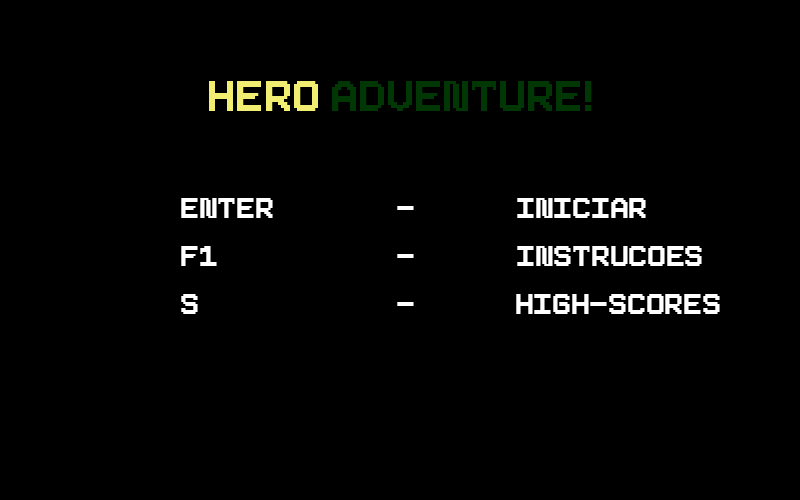
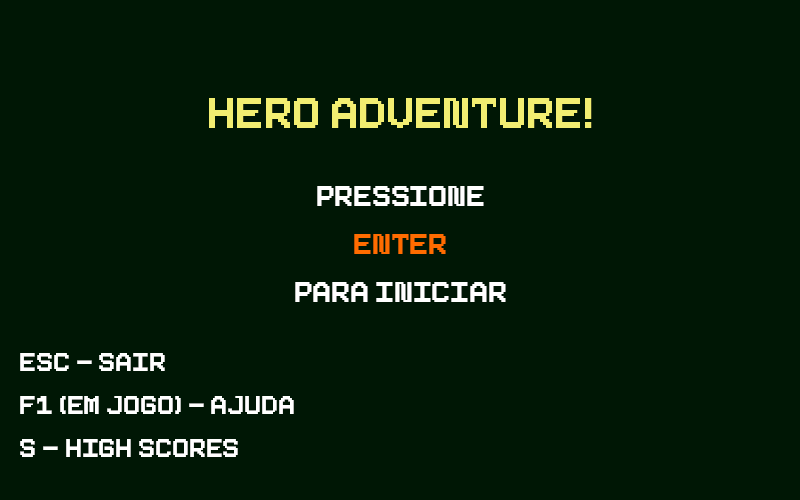
quase pronto, falta apenas conclusão e easter egg

diff --git a/class/hero_class.c b/class/hero_class.c
@@ -12,13 +12,19 @@
 
 void inicia_fontes(){
 
-	 title_font = al_load_ttf_font(FONT_PIX, 40, 0);
+	title_font = al_load_ttf_font(FONT_PIX, 40, 0);
 	if (!title_font)
 	{
 	    fprintf(stderr, "Não foi possivel carregar a fonte" );
 	    exit(1);
 	}
 	score_font = al_load_ttf_font(FONT_PIX, 15, 0);
+	if (!score_font)
+	{
+	    fprintf(stderr, "Não foi possivel carregar a fonte" );
+	   	exit(1);
+	}
+	name_font = al_load_ttf_font(FONT_PIX, 32, 0);
 	if (!score_font)
 	{
 	    fprintf(stderr, "Não foi possivel carregar a fonte" );
@@ -398,6 +404,26 @@ void cria_monstros_estruturas()
 	monsters[6] -> checa_sprite = 0;
   	monsters[6] -> num_sprite = 0;
 
+  	monsters[7] -> using = 1;
+	monsters[7] -> type = 4;
+	monsters[7] -> live = 1;
+	monsters[7] -> life = 1;
+	monsters[7] -> w = 70;
+	monsters[7] -> h = 103;
+	monsters[7] -> x = 540;
+	monsters[7] -> rw = 70;
+	monsters[7] -> rh = 103;
+	monsters[7] -> y = 300;
+	monsters[7] -> dx,monsters[7] -> dy = 0;
+	monsters[7] -> vai = 0;
+	monsters[7] -> sobe = 0;
+	monsters[7] -> x_ini = 100;
+	monsters[7] -> x_dest = 800 - monsters[7] -> rw;
+	monsters[7] -> y_ini = 0;
+	monsters[7] -> y_dest = 0;
+	monsters[7] -> stage = 3;
+	monsters[7] -> checa_sprite = 0;
+  	monsters[7] -> num_sprite = 0;
 }
 
 int checa_hero(int i)
@@ -961,7 +987,6 @@ void UpdateFloor()
 //Imprime o background correto nas fases 
 void CameraUpdate()
 {
-
 	if (stage != 3)
 	{
 		background=al_load_bitmap(BACKGROUND_FILE);
@@ -1063,6 +1088,7 @@ void hit()
 				int pos =hero_ -> y + hero_ -> rh;
 				if ((pos >= monsters[i] -> y) && (pos <= monsters[i] -> y + (monsters[i]->rh/3))) 
 				{
+						hero_ -> dy -= CONSTANTE_Y;
 						monsters[i] -> life--;
 						if (monsters[i] -> life == 0 )
 						{
@@ -1085,6 +1111,8 @@ void hit()
 								PONTUACAO+=2;
 							else if(type == 4)
 								PONTUACAO+=10;
+							else if(type == 5)
+								PONTUACAO+=50;
 						}
 						else{
 							if (monsters[i] -> vai)
@@ -1250,10 +1278,9 @@ void state_close()
 }
 void show_scores()
 {
-	
 	al_clear_to_color(al_map_rgb(0, 35, 8));
 
-	al_draw_text(title_font, al_map_rgb(226, 233, 5), 250,100, 0,"HIGH - SCORES");
+	al_draw_text(title_font, al_map_rgb(242, 238, 113), 250,100, 0,"HIGH - SCORES");
 	
 	int offset = 10;
 	for (int i = 0; i < cont_scores; i++)
@@ -1268,11 +1295,19 @@ void show_scores()
 	//al_destroy_font(font);
 	al_flip_display();
 }
-
-
-
-
-
+void help()
+{
+	al_clear_to_color(al_map_rgb(0, 0, 0));
+	ALLEGRO_BITMAP *ajuda = NULL;
+	ajuda = al_load_bitmap(HELP_IMAGE);
+	if (!ajuda)
+	{
+		fprintf(stderr, "Erro ao ler imagem de ajuda\n");
+		exit(1);
+	}
+	al_draw_bitmap(ajuda, 0, 0, 0);
+	al_flip_display();
+}
 
 
 
@@ -1282,12 +1317,11 @@ void recebe_user(ALLEGRO_FONT* font, ALLEGRO_USTR *name)
 	us = malloc(100*sizeof(h_score));
     strcpy(nome, al_cstr(name));
     strcpy(us -> nome, nome);
-    us -> score = PONTUACAO;
 
     char text[100] = "Digite seu nome: ";
-	al_clear_to_color(al_map_rgb(0, 0, 0));
-	al_draw_text(font, al_map_rgb(255, 104, 1), 300,180, 0,text);
-	al_draw_text(font, al_map_rgb(255, 104, 1), 300,250, 0,nome);
+	al_clear_to_color(al_map_rgb(0, 35, 8));
+	al_draw_text(title_font, al_map_rgb(255, 104, 1), 250,180, 0,text);
+	al_draw_text(name_font, al_map_rgb(255, 104, 1), 330,250, 0,nome);
 	al_flip_display();
 }
 void ler_file_scores()

diff --git a/main.c b/main.c
@@ -12,9 +12,11 @@
 #include "allegro5/allegro_ttf.h"
 #define RESERVED_SAMPLES   16
 #define MAX_SAMPLE_DATA    10
+#define MAX_LEN 5
 #define WIDTH 800
 #define HEIGHT 500
 
+int old_state;
 int main()
 {
   ler_file_scores();
@@ -74,13 +76,14 @@ int main()
   }
   inicia_fontes();
 
-    //Inicia o Display
-    disp = al_create_display(WIDTH, HEIGHT);
-    if(!disp)
+  //Inicia o Display
+  disp = al_create_display(WIDTH, HEIGHT);
+  if(!disp)
 	{
     	fprintf(stderr, "Não foi possível iniciar a tela");
 	    return 1;
 	}
+  al_set_window_title(disp, "Hero Adventure");
 	//Inicia a fonte
 	font = al_create_builtin_font();
 	if(!font)
@@ -131,12 +134,12 @@ int main()
           			state_serve(&evento);break;
           		case 3:
           			state_play(font);break;
-          		case 4:
-          			state_init(font);break;
           		case 5:
           			state_close();break;
               case 6:
                 show_scores();break;
+              case 7:
+                help();break;
           		default: break ;
           	}
         }
@@ -144,12 +147,25 @@ int main()
         {
             if(evento.keyboard.keycode == ALLEGRO_KEY_ESCAPE)
                 break;
-            else if((evento.keyboard.keycode == ALLEGRO_KEY_ENTER) && (estado == SERVINDO))
+            else if((evento.keyboard.keycode == ALLEGRO_KEY_ENTER) &&((estado == SERVINDO) || (estado == HELP)))
             	estado = JOGANDO;
             else if((evento.keyboard.keycode == ALLEGRO_KEY_S) && (estado == SERVINDO))
                estado = HIGH_SCORES;
             else if((evento.keyboard.keycode == ALLEGRO_KEY_M))
                estado = INICIO;
+            else if((evento.keyboard.keycode == ALLEGRO_KEY_F1) && (estado != 6))
+            {
+              if (estado != SERVINDO)
+              {
+                if (estado != HELP){
+                  old_state = estado;
+                  estado = HELP;
+                }
+                else
+                  estado = old_state;
+              }
+             
+            }
             else if(estado == JOGANDO)
             {
               if(evento.keyboard.keycode == ALLEGRO_KEY_LEFT)
@@ -173,7 +189,7 @@ int main()
     }
    
 
-   
+   int x = 0;
 
     ALLEGRO_USTR *name;
     name = al_ustr_new("");
@@ -200,13 +216,23 @@ int main()
           done = 1;
           break;  
         case ALLEGRO_EVENT_KEY_CHAR:
-          if (ev.keyboard.unichar >= 32){
-             al_ustr_append_chr(name, ev.keyboard.unichar);
+          if (ev.keyboard.unichar >= 33)
+          {
+             if (x <= MAX_LEN){
+                al_ustr_append_chr(name, ev.keyboard.unichar);
+                x=al_ustr_length(name);
+             }
           }
           else if (ev.keyboard.keycode == ALLEGRO_KEY_ESCAPE)
-          {
               done = 1;
+          else if (ev.keyboard.keycode == ALLEGRO_KEY_ENTER)
+              done = 1;
+          else if (ev.keyboard.keycode == ALLEGRO_KEY_BACKSPACE)
+          {
+              al_ustr_remove_chr(name, x);
+              x--;
           }
+
           break;
       }
      

diff --git a/class/hero_class.h b/class/hero_class.h
@@ -65,7 +65,7 @@ typedef struct obs obs;
 typedef struct hero hero;
 typedef struct plataforma plat;
 typedef struct user_score user_score;
-typedef enum {INICIO = 1, SERVINDO, JOGANDO, FIMPART, FIMJOGO, HIGH_SCORES} state ;
+typedef enum {INICIO = 1, SERVINDO, JOGANDO, FIMPART, FIMJOGO, HIGH_SCORES, HELP} state ;
 state estado;
 typedef enum {NONE = 0, ESQUERDA, CIMA, DIREITA, BAIXO} direcao;
 double fps;
@@ -95,7 +95,7 @@ int inside_stairs(int i);
 void recebe_user(ALLEGRO_FONT* font, ALLEGRO_USTR *name);
 void ler_file_scores();
 void escreve_file_scores();
-void show_scores();
+
 
 
 void state_init(ALLEGRO_FONT* font);
@@ -103,4 +103,6 @@ void state_serve(ALLEGRO_EVENT *evento);
 void state_play(ALLEGRO_FONT* font);
 void state_over();
 void state_close();
+void show_scores();
+void help();
 #endif

diff --git a/class/variables.h b/class/variables.h
@@ -21,6 +21,7 @@
 #define GAME_MENU 		"img/hero_adventure.png"
 #define BOA_RIGHT 		"img/death.png"
 #define BOA_LEFT        "img/safety.png"
+#define HELP_IMAGE		"img/help.png"
 
 #define HERO_FILE 		"img/hero.png"
 #define RUN_RIGHT 		"img/run_right.png"
@@ -51,6 +52,7 @@
 #define HERO_IMAGE_LEFT	"img/hero_left/"
 
 #define SUPER_GROUND 435
+
 #define CONSTANTE_X 10
 #define CONSTANTE_Y 160
 #define CONSTANTE_G 10
@@ -103,6 +105,7 @@ ALLEGRO_SAMPLE *death_sound		= NULL;
 
 ALLEGRO_FONT* title_font		= NULL;
 ALLEGRO_FONT* score_font		= NULL;
+ALLEGRO_FONT* name_font			= NULL;
 
 hero 	*hero_     				= NULL;
 obs 	**obstacles 			= NULL;
